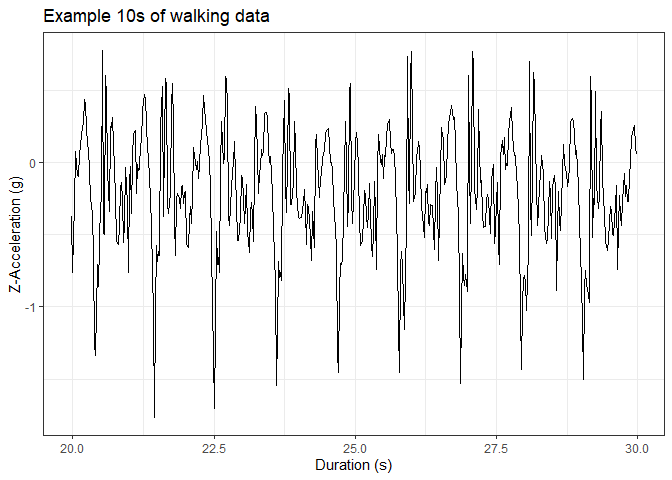
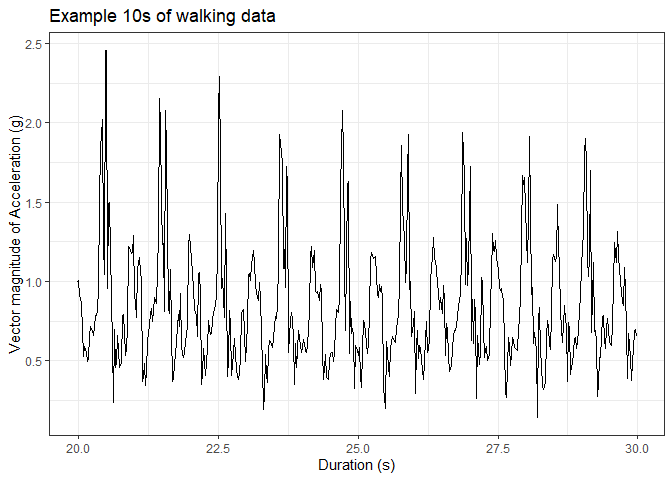
Identifying most dominant frequencies during walking

diff --git a/Output notebooks/Actigraphy Metrics.md b/Output notebooks/Actigraphy Metrics.md
@@ -63,10 +63,16 @@ names(Data_raw_walk) <- c("ts",
 
 Data_raw_walk$ts = Data_raw_walk$ts / 50 # Converting index to a relative time in seconds
 
+Data_raw_walk[,5] = sqrt(Data_raw_walk[,2] ** 2 +
+                                           Data_raw_walk[,3] ** 2 +
+                                           Data_raw_walk[,4] ** 2)
+
+names(Data_raw_walk)[5] = "userAcceleration_VM"
+
 head(Data_raw_walk)
 ```
 
-    # A tibble: 6 × 4
+    # A tibble: 6 × 5
          ts userAcceleration_X userAcceleration_Y userAcceleration_Z
       <dbl>              <dbl>              <dbl>              <dbl>
     1  0               0.0917             0.416               0.0937
@@ -75,12 +81,13 @@ head(Data_raw_walk)
     4  0.06            0.00496           -0.238              -0.0191
     5  0.08           -0.0403            -0.241               0.0152
     6  0.1            -0.0908            -0.286              -0.0346
+    # ℹ 1 more variable: userAcceleration_VM <dbl>
 
 ``` r
-ggplot(Data_raw_walk[1000:1500,], aes(x = ts, y = userAcceleration_Z)) +
+ggplot(Data_raw_walk[1000:1500,], aes(x = ts, y = userAcceleration_VM)) +
   theme_bw() +
   geom_line() +
-  labs(title = "Example 10s of walking data", x = "Duration (s)", y = "Z-Acceleration (g)")
+  labs(title = "Example 10s of walking data", x = "Duration (s)", y = "Vector magnitude of Acceleration (g)")
 ```
 
 ![](Actigraphy-Metrics_files/figure-commonmark/Importing%20Data-1.png)
@@ -94,9 +101,11 @@ clean_acc = function(raw_signal, filter_order = 6, fs = 50, freq_cutoff = c(0.1,
   
   w_cutoff = freq_cutoff / (fs / 2)
   
-  butt_filt = gsignal::butter(n = filter_order, w = w_cutoff, type = "pass")
+  butt_filt = gsignal::butter(filter_order, w = freq_cutoff / (fs / 2), type = "pass")
   
-  clean_signal = gsignal::filter(butt_filt, raw_signal)
+  clean_signal = gsignal::filtfilt(butt_filt, raw_signal)
+  
+  print(gsignal::freqz(butt_filt, fs = fs))
   
   return(clean_signal)
   
@@ -108,7 +117,7 @@ combine_acc = function(raw_signal, clean = TRUE){
     raw_signal = sapply(raw_signal, clean_acc)
   }
   
-  vm = sqrt(raw_signal[,1] ** 2 + raw_signal[,2] ** 2 + raw_signal[,3] ** 2)
+  vm = (raw_signal[,1] ** 2 + raw_signal[,2] ** 2 + raw_signal[,3] ** 2)**0.5
   
   return(vm)
   
@@ -120,13 +129,79 @@ Data_clean_walk = data.frame(
   ts = Data_raw_walk$ts,
   sapply(Data_raw_walk[,2:4], clean_acc)
 )
+```
 
+![](Actigraphy-Metrics_files/figure-commonmark/Cleaned%20walking%20data-1.png)
+
+![](Actigraphy-Metrics_files/figure-commonmark/Cleaned%20walking%20data-2.png)
+
+``` r
 Data_clean_walk$userAcceleration_VM = combine_acc(Data_clean_walk[,2:4], clean = F)
 
 ggplot(Data_clean_walk[1000:1500,], aes(x = ts, y = userAcceleration_VM)) +
   theme_bw() +
   geom_line() +
+  geom_line(data = Data_raw_walk[1000:1500,], colour = "#662200", alpha = 0.4) +
   labs(title = "Example 10s of (cleaned) walking data", x = "Duration (s)", y = "Acceleration magnitude (g)")
+```
+
+![](Actigraphy-Metrics_files/figure-commonmark/Cleaned%20walking%20data-3.png)
+
+``` r
+Data_hist = bind_cols(select(Data_raw_walk, userAcceleration_VM), select(Data_clean_walk, userAcceleration_VM))
+```
+
+    New names:
+    • `userAcceleration_VM` -> `userAcceleration_VM...1`
+    • `userAcceleration_VM` -> `userAcceleration_VM...2`
+
+``` r
+names(Data_hist) <- c("Raw", "Cleaned")
+
+
+Data_hist = pivot_longer(Data_hist, cols = c(Raw, Cleaned))
+
+# Distribution of accelerometer readings
+ggplot() +
+  theme_bw() +
+  geom_histogram(data = Data_hist, aes(x = value, fill = name), position = "identity", alpha = 0.4)
+```
+
+    `stat_bin()` using `bins = 30`. Pick better value with `binwidth`.
+
+![](Actigraphy-Metrics_files/figure-commonmark/Summary%20of%20accelerometer%20characteristics%20post-filtering-1.png)
+
+``` r
+ggplot() +
+  theme_bw() +
+  geom_density(data = Data_hist, aes(x = value, y = after_stat(density), fill = name), position = "identity", alpha = 0.4)
+```
+
+![](Actigraphy-Metrics_files/figure-commonmark/Summary%20of%20accelerometer%20characteristics%20post-filtering-2.png)
+
+``` r
+psd = gsignal::pwelch(x = Data_clean_walk$userAcceleration_VM, fs = 50, window = 1000, detrend = "short-mean")
+
+plot_data = data.frame(
+  freq = psd$freq,
+  spec = psd$spec
+)
+
+peaks = gsignal::findpeaks(data = psd$spec, MinPeakHeight = 0.1)
+
+peak_data = data.frame(
+  freq = psd$freq[peaks$loc],
+  spec = psd$spec[peaks$loc]
+)
+
+
+
+
+
+ggplot() +
+  theme_bw() +
+  geom_line(data = plot_data, aes(x = freq, y = spec)) +
+  geom_point(data = peak_data, aes(x = freq, y = spec))
 ```
 
 ![](Actigraphy-Metrics_files/figure-commonmark/unnamed-chunk-1-1.png)
